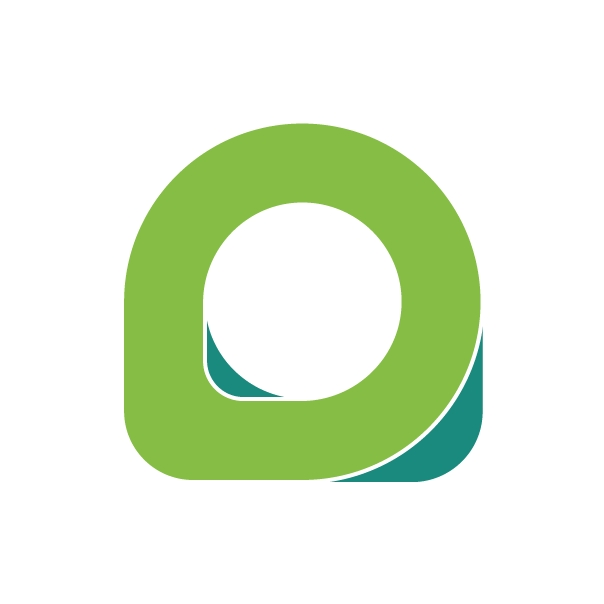
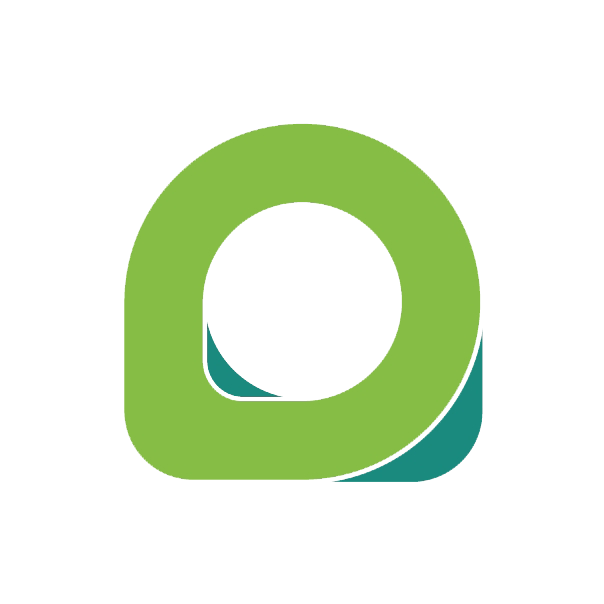
vfb

diff --git a/app.html b/app.html
@@ -22,7 +22,7 @@
         </div>
         <div class="my">
           <div class="icon">
-            <img src="res/img/icon.png" alt="" />
+            <img src="res/img/icon.jpg" alt="" />
           </div>
           <h1>Qotayba Mohammad</h1>
           <ul> 
